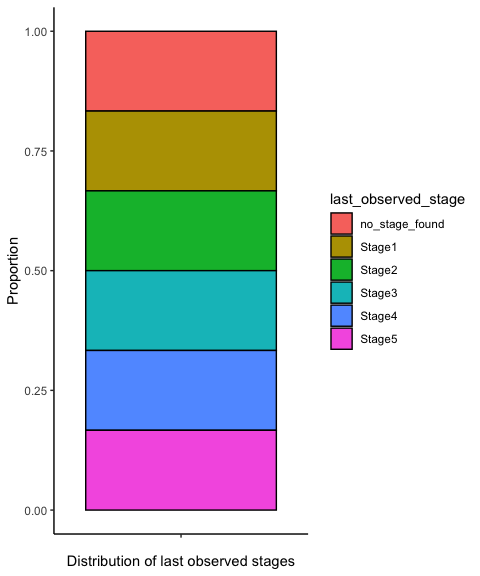
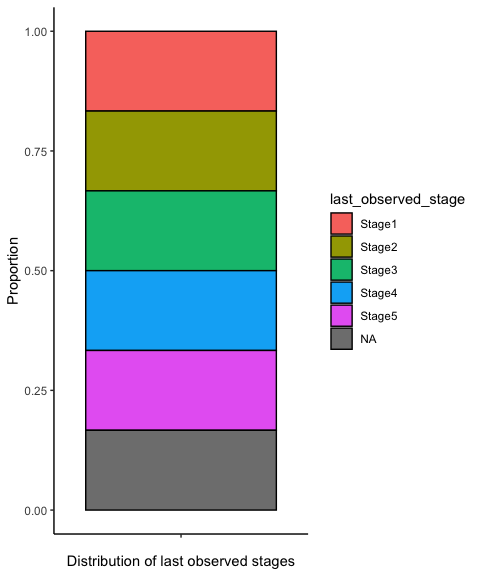
Fixed note in check 'no visible binding' when factorising data. Updated README

Changed region(s): [[0.1562, 0.3125, 0.5938, 0.9062], [0.6875, 0.4375, 0.8438, 0.625], [0.75, 0.375, 0.9375, 0.4375]]

diff --git a/README.md b/README.md
@@ -33,7 +33,8 @@ stages.
 The first stage of stagetrackr analysis is to use the
 `assigned_stages()` function. This function takes the data frame and the
 stage order and returns the last observed developmental stage seen in
-each row.
+each row, creating a column which is a factor with levels dictated by
+the provided columns.
 
 ``` r
 library(stagetrackr)
@@ -54,13 +55,13 @@ assigned_stages = stage_assigning(columns = example_stages, data = example_data)
 show(assigned_stages)
 #> # A tibble: 6 × 7
 #>      ID Stage1     Stage2     Stage3     Stage4     Stage5   last_observed_stage
-#>   <dbl> <chr>      <chr>      <chr>      <chr>      <chr>    <chr>              
+#>   <dbl> <chr>      <chr>      <chr>      <chr>      <chr>    <fct>              
 #> 1     1 01/01/2000 <NA>       <NA>       <NA>       <NA>     Stage1             
 #> 2     2 01/01/2000 02/01/2000 <NA>       <NA>       <NA>     Stage2             
 #> 3     3 01/01/2000 02/01/2000 03/01/2000 <NA>       <NA>     Stage3             
 #> 4     4 01/01/2000 02/01/2000 03/01/2000 04/01/2000 <NA>     Stage4             
 #> 5     5 01/01/2000 02/01/2000 03/01/2000 04/01/2000 05/01/2… Stage5             
-#> 6     6 <NA>       <NA>       <NA>       <NA>       <NA>     no_stage_found
+#> 6     6 <NA>       <NA>       <NA>       <NA>       <NA>     <NA>
 ```
 
 Following the use of `stage_assigning()` a data table can be created
